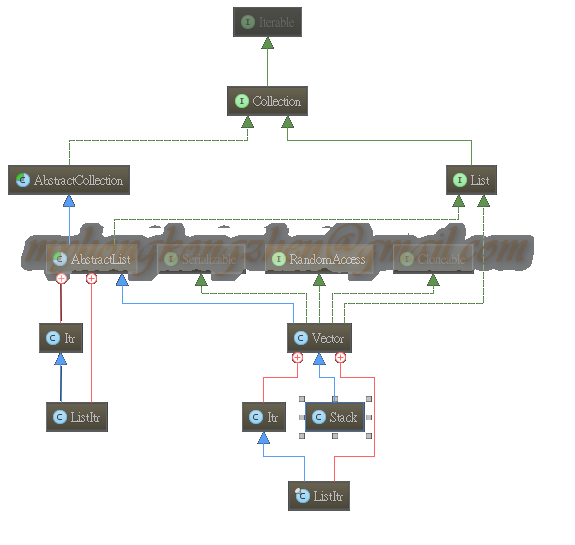
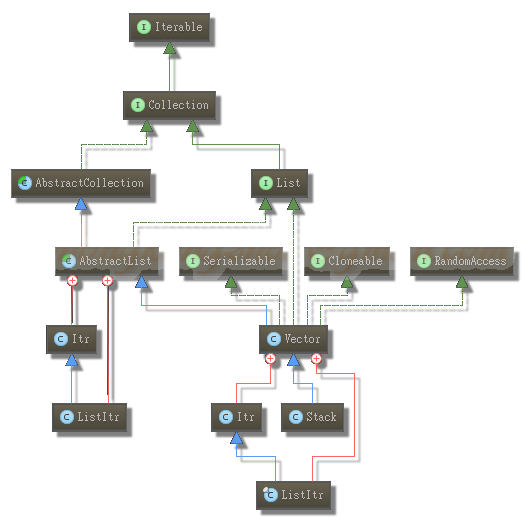
Collections -- Stack 相關

Changed region(s): [[0.0, 0.0, 1.0, 1.0]]

diff --git a/source/_posts/020-Collections-Stack.md b/source/_posts/020-Collections-Stack.md
@@ -1,0 +1,106 @@
+title: Collections -- Stack -- (十八)
+date: 2015-12-14 15:06:25
+categories: 技術
+tags:
+- JAVA
+- JDK1.7
+---
+> 簡介：JDK 1.7 Collections 之 Stack 詳解 (十五)
+> 這一節主要學習集合框架中的 Stack 成員屬性、方法等具體實現
+> 相關源碼分析及詳細api文檔移路→[Collection接口https://github.com/myhongkongzhen/pro-study-jdk/](https://github.com/myhongkongzhen/pro-study-jdk/tree/master/src/main/java/z/z/w/jdk/collections)
+
+<!--more-->
+
+### Stack 說明:
+> 同樣是線程安全的 synchronized 方法 實現
+
+### Stack UML:
+<img src="/images/Collections/Collection-Stack.png"  />
+
+### Stack 源碼解析:
+```
+
+    /**
+     * Pushes an item onto the top of this stack. This has exactly
+     * the same effect as:
+     * <blockquote><pre>
+     * addElement(item)</pre></blockquote>
+     *
+     * @param   item   the item to be pushed onto this stack.
+     * @return  the <code>item</code> argument.
+     * @see     java.util.Vector#addElement
+     */
+    public E push(E item) {
+        addElement(item);
+
+        return item;
+    }
+
+    /**
+     * Removes the object at the top of this stack and returns that
+     * object as the value of this function.
+     *
+     * @return  The object at the top of this stack (the last item
+     *          of the <tt>Vector</tt> object).
+     * @throws  EmptyStackException  if this stack is empty.
+     */
+    public synchronized E pop() {
+        E       obj;
+        int     len = size();
+
+        obj = peek();
+        removeElementAt(len - 1);
+
+        return obj;
+    }
+
+    /**
+     * Looks at the object at the top of this stack without removing it
+     * from the stack.
+     *
+     * @return  the object at the top of this stack (the last item
+     *          of the <tt>Vector</tt> object).
+     * @throws  EmptyStackException  if this stack is empty.
+     */
+    public synchronized E peek() {
+        int     len = size();
+
+        if (len == 0)
+            throw new EmptyStackException();
+        return elementAt(len - 1);
+    }
+
+    /**
+     * Tests if this stack is empty.
+     *
+     * @return  <code>true</code> if and only if this stack contains
+     *          no items; <code>false</code> otherwise.
+     */
+    public boolean empty() {
+        return size() == 0;
+    }
+
+    /**
+     * Returns the 1-based position where an object is on this stack.
+     * If the object <tt>o</tt> occurs as an item in this stack, this
+     * method returns the distance from the top of the stack of the
+     * occurrence nearest the top of the stack; the topmost item on the
+     * stack is considered to be at distance <tt>1</tt>. The <tt>equals</tt>
+     * method is used to compare <tt>o</tt> to the
+     * items in this stack.
+     *
+     * @param   o   the desired object.
+     * @return  the 1-based position from the top of the stack where
+     *          the object is located; the return value <code>-1</code>
+     *          indicates that the object is not on the stack.
+     */
+    public synchronized int search(Object o) {
+        int i = lastIndexOf(o);
+
+        if (i >= 0) {
+            return size() - i;
+        }
+        return -1;
+    }
+
+```
